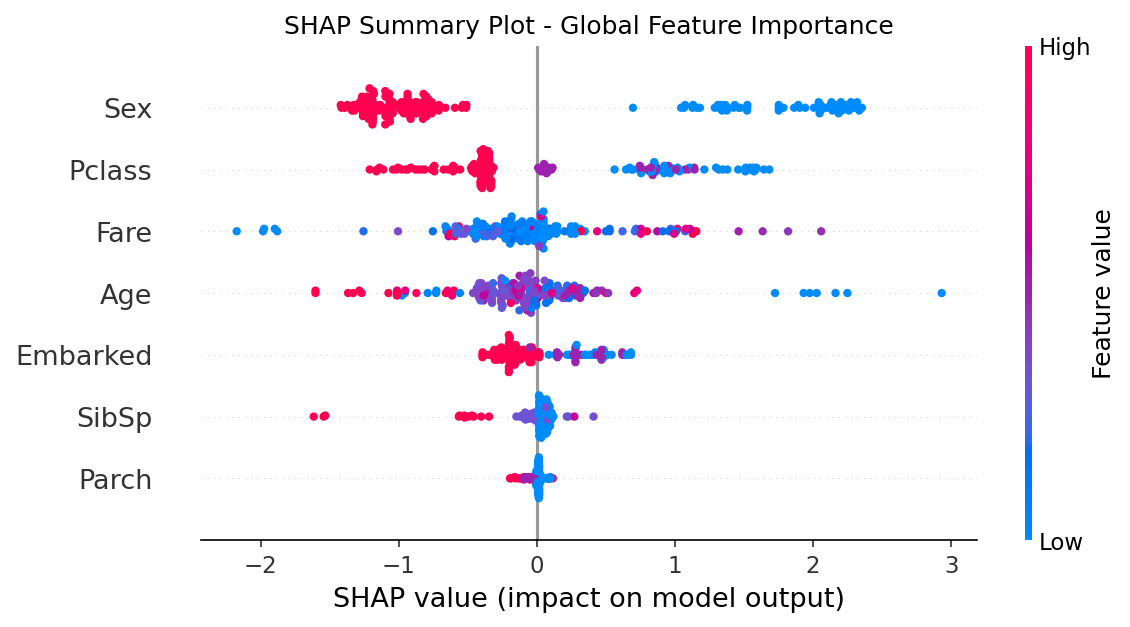
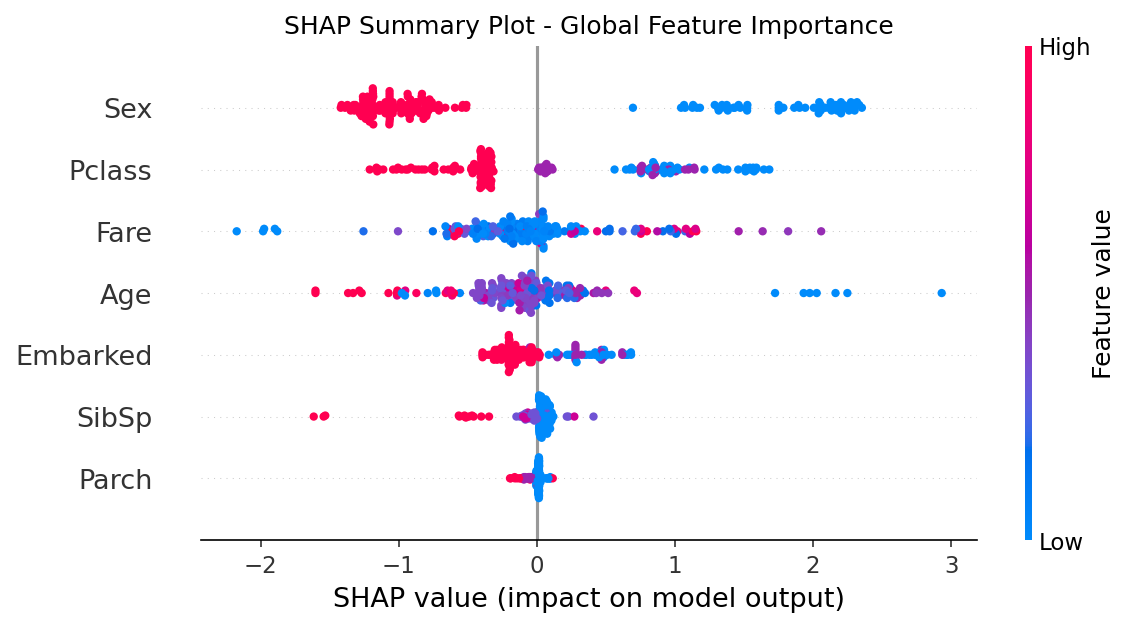
Remove debug prints, clean up code

diff --git a/shap_reproduction.py b/shap_reproduction.py
@@ -116,15 +116,10 @@ kernel_explainer = shap.KernelExplainer(model_predict, background.values)
 X_test_small = X_test.iloc[:20]
 kernel_shap_values = kernel_explainer.shap_values(X_test_small.values, nsamples=100)
 
-# kernel_shap_values is a list [class_0, class_1] - we take class_1 (survived)
-# kernel_shap_values shape: [n_classes, n_samples, n_features]
+# kernel_shap_values shape: (n_samples, n_features, n_classes)
 kernel_arr_s4 = np.array(kernel_shap_values)
 kernel_shap_class1 = kernel_arr_s4[:, :, 1]
-print(f"Kernel SHAP class1 shape: {kernel_shap_class1.shape}")
-print(f"kernel_shap_values type: {type(kernel_shap_values)}")
-print(f"kernel_shap_values length: {len(kernel_shap_values)}")
-print(f"kernel_shap_values[0] shape: {np.array(kernel_shap_values[0]).shape}")
-print(f"Kernel SHAP values shape: {kernel_shap_class1.shape}")
+
 print(f"Base value (class 1): {kernel_explainer.expected_value[1]:.4f}")
 print(f"\nKernel SHAP values for first passenger:")
 for feat, val in zip(X_test.columns, kernel_shap_class1[0]):
@@ -212,13 +207,10 @@ tree_importance = pd.Series(
     index=X_test.columns
 ).sort_values(ascending=False)
 
-# Fix kernel SHAP shape issue
+# Extract class 1 (Survived) SHAP values
+# Shape is (n_samples, n_features, n_classes) - take last dimension index 1
 kernel_arr = np.array(kernel_shap_values)
-print(f"kernel_arr shape: {kernel_arr.shape}")
-# Shape is (20, 7, 2) - samples, features, classes
-# Take class 1 (survived) from last dimension
 kernel_shap_fixed = kernel_arr[:, :, 1]
-print(f"kernel_shap_fixed shape: {kernel_shap_fixed.shape}")
 
 kernel_importance = pd.Series(
     np.abs(kernel_shap_fixed).mean(axis=0),
@@ -240,7 +232,7 @@ plt.suptitle('Tree SHAP vs Kernel SHAP Feature Importance',
 plt.tight_layout()
 plt.savefig('outputs/tree_vs_kernel_shap.png', dpi=150, bbox_inches='tight')
 plt.close()
-print("Saved: outputs/tree_vs_kernel_shap.png")    
+print("Saved: outputs/tree_vs_kernel_shap.png")
 
 # ============================================================
 # SECTION 7: SECTION 5.1 FROM PAPER